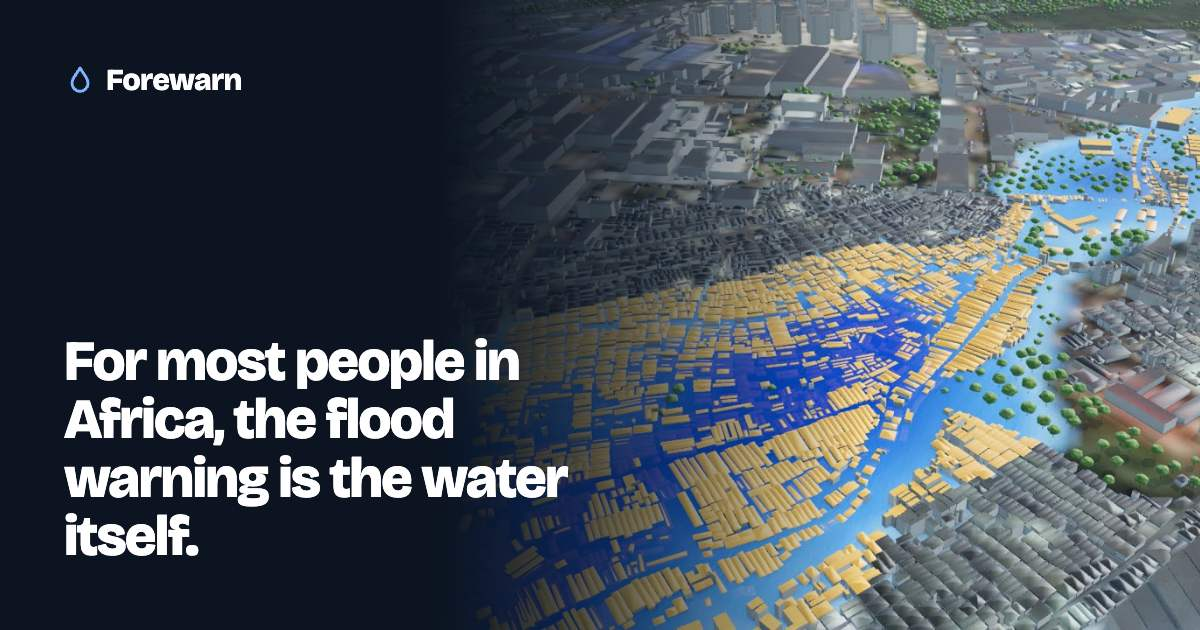
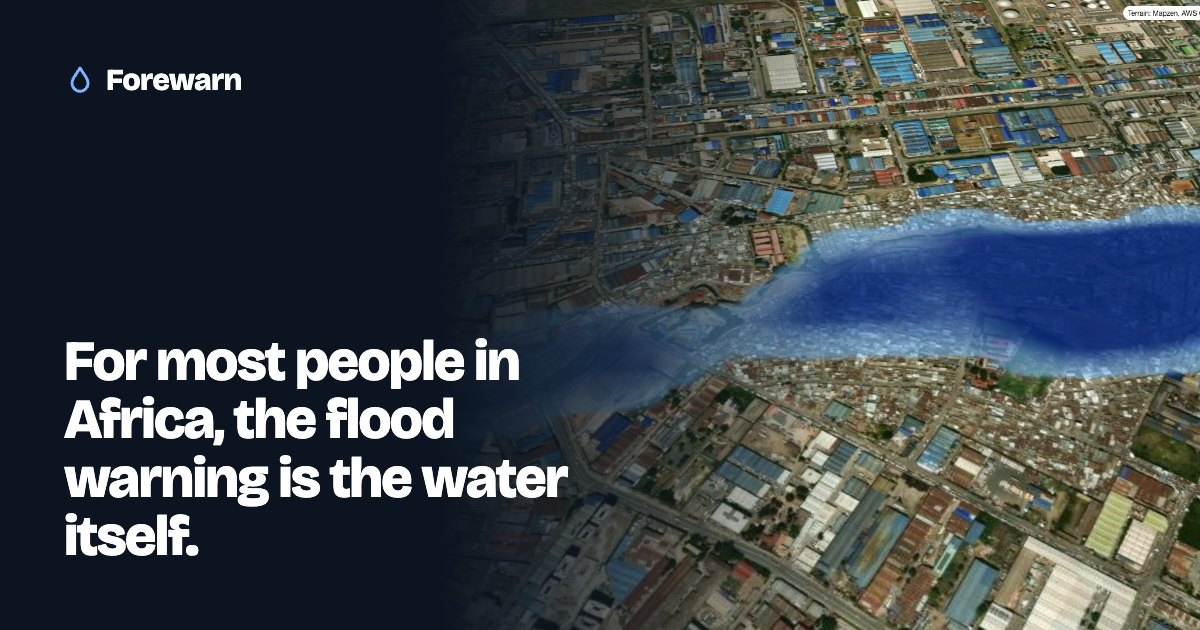
The share card shows the flood over the satellite map.

diff --git a/app/index.html b/app/index.html
@@ -15,7 +15,7 @@
   <link rel="canonical" href="https://forewarn.dawnstackai.com/" />
   <meta name="robots" content="index, follow, max-image-preview:large, max-video-preview:-1" />
 
-  <!-- Share cards: our own 3D render of the March 2026 Nairobi storm (a flood model), never a photo we do not own -->
+  <!-- Share cards: our own render of the March 2026 Nairobi storm (a flood model over the satellite map), never a photo we do not own -->
   <meta property="og:type" content="website" />
   <meta property="og:site_name" content="Forewarn" />
   <meta property="og:url" content="https://forewarn.dawnstackai.com/" />
@@ -27,7 +27,7 @@
   <meta property="og:image:width" content="1200" />
   <meta property="og:image:height" content="630" />
   <meta property="og:image:type" content="image/jpeg" />
-  <meta property="og:image:alt" content="A 3D model of floodwater rising over a Nairobi neighbourhood, beside the words: For most people in Africa, the flood warning is the water itself." />
+  <meta property="og:image:alt" content="A flood model of water rising over a Nairobi neighbourhood on the satellite map, beside the words: For most people in Africa, the flood warning is the water itself." />
   <meta property="og:video" content="https://forewarn.dawnstackai.com/og-video.mp4" />
   <meta property="og:video:secure_url" content="https://forewarn.dawnstackai.com/og-video.mp4" />
   <meta property="og:video:type" content="video/mp4" />
@@ -44,7 +44,7 @@
   <meta name="twitter:title" content="Forewarn: know days before a flood reaches your area" />
   <meta name="twitter:description" content="Free flood warnings for your street, farm or village, anywhere in Africa. Ask the agent, watch the last flood on the satellite map, report water with a photo." />
   <meta name="twitter:image" content="https://forewarn.dawnstackai.com/og.jpg" />
-  <meta name="twitter:image:alt" content="A 3D model of floodwater rising over a Nairobi neighbourhood." />
+  <meta name="twitter:image:alt" content="A flood model of water rising over a Nairobi neighbourhood on the satellite map." />
 
   <script type="application/ld+json">
   {
